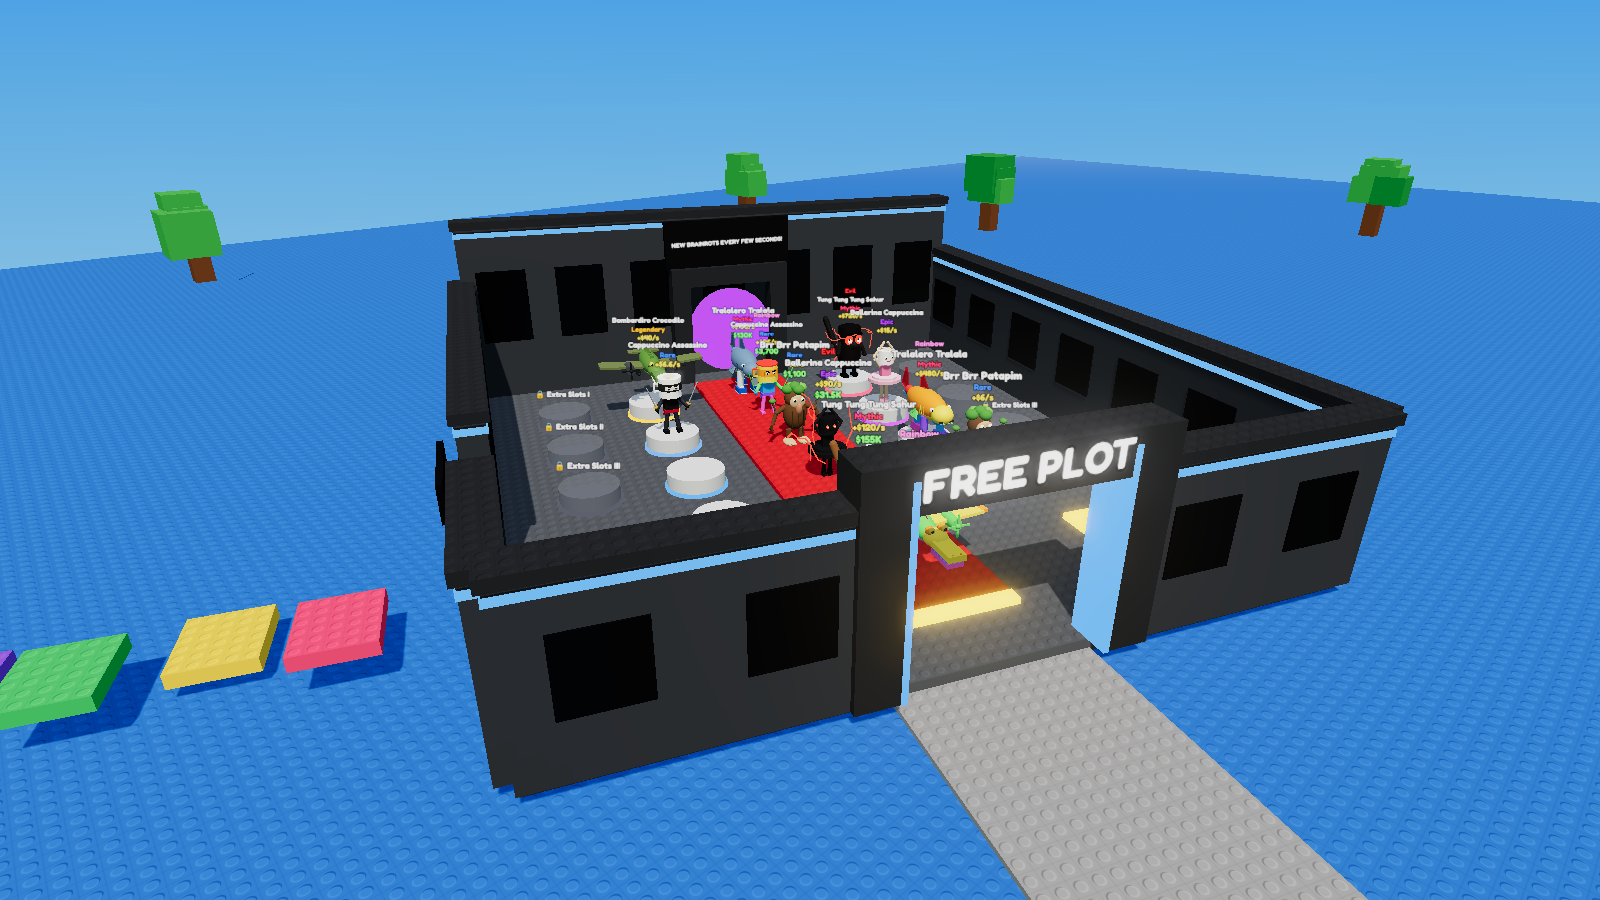
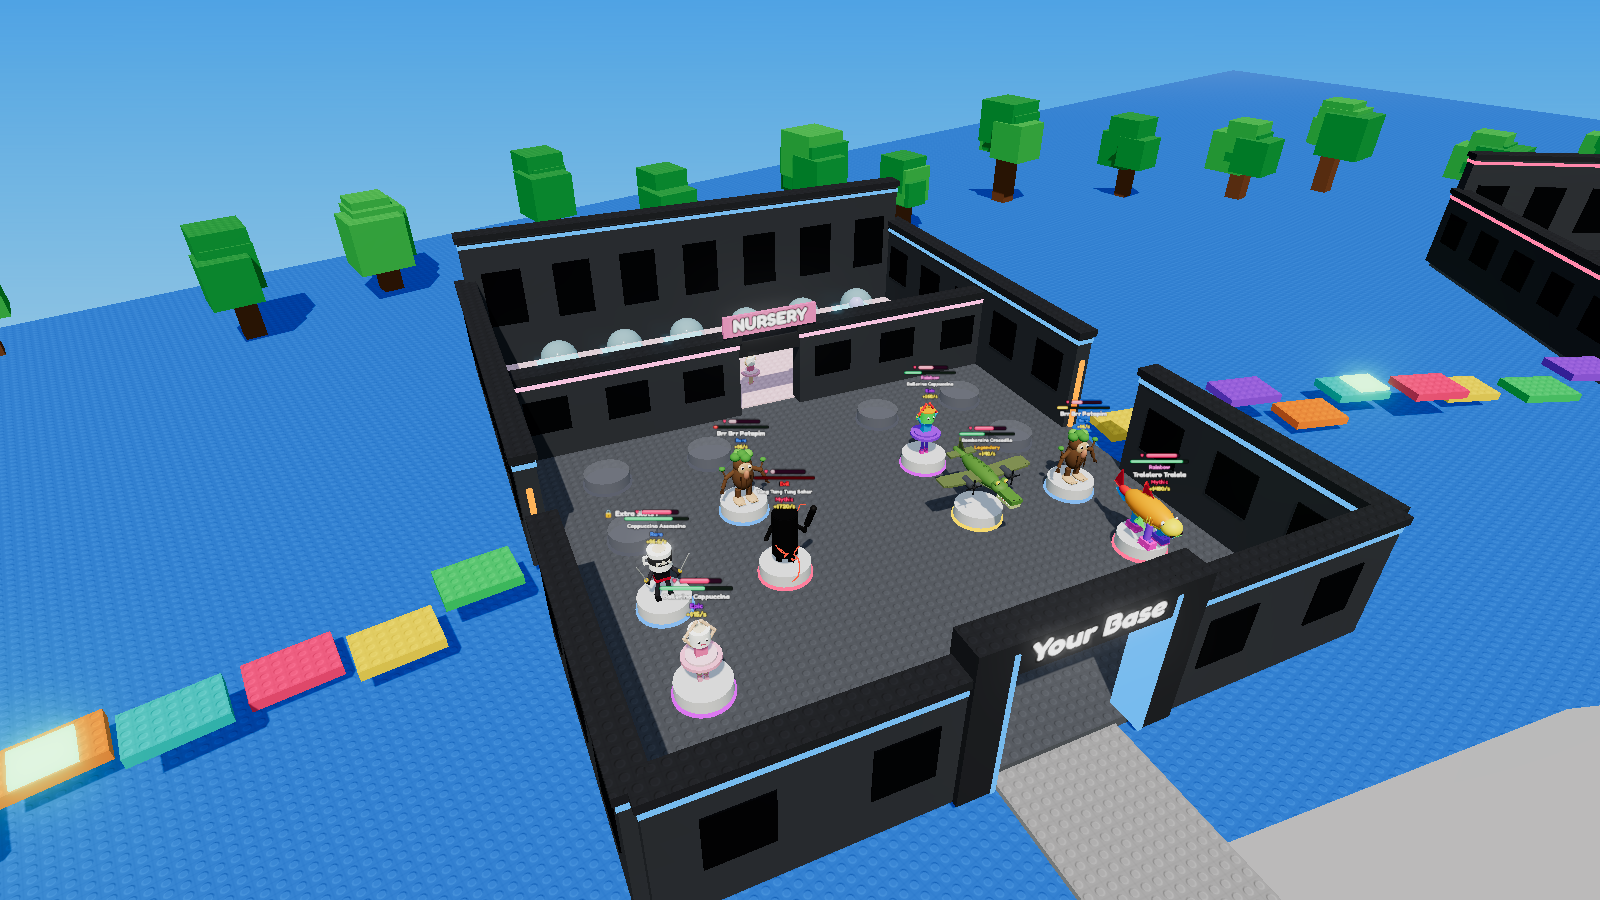
v3 docs + real-code renders: Studio steps and screenshot checklist
- docs/SLICE_REVIEW.md rewritten for v3: Studio steps, dev test buttons,
  walkthrough of every new system, screenshot checklist, what's not in
  this build (stealing itself is Phase 3)
- DECISIONS D39 (owner answers + implementation choices), CHANGELOG,
  DESIGN_V3 marked approved/built with the answers
- World preview renders the real game: map, hub, carpet, your base with
  the owner rows, the other player's view, the nursery with babies and
  eggs, a locked nursery, night; disabled labels are no longer drawn

Claude-Session: https://claude.ai/code/session_01FwRruUCtMU9EALDabTDmkX

diff --git a/docs/SLICE_REVIEW.md b/docs/SLICE_REVIEW.md
@@ -1,51 +1,96 @@
-# Vertical slice: how to open it and what to screenshot
+# v3 build: how to open it in Studio and what to screenshot
+
+This covers the v3 update: the 12-base map, the shared conveyor, food, loyalty and runaways, the nursery, and
+monetisation. The game still runs in **slice mode** (`Config.Game.VERTICAL_SLICE = true`):
+- you claim a base automatically when you join
+- the clock is frozen at midday (press **N** to switch Day/Night)
+- variant odds are boosted
+- only the six modelled characters spawn
+
+Runaway timers still tick in real time while you're in the server: 1 in-game day ≈ 12.8 minutes.
 
 ## Open it in Studio
 1. Pull the branch `claude/rot-shift-roblox-game-zaokoh`.
 2. In the repo: `rokit install` (or `scripts/install-tools.sh`), then `wally install` (fetches Fusion).
 3. `rojo serve`
-4. In Studio: **File → New → Baseplate**. Delete the default **Baseplate** part and **SpawnLocation**
-   (the slice builds its own). Then open the Rojo plugin → **Connect**. Accept the sync.
-5. Check that **Lighting → Technology** shows **Future** (Rojo sets it). If Studio kept the template's
-   value, set it by hand.
-6. *(Optional, for saves)* Game Settings → Security → **Enable Studio Access to API Services**. Studio
-   uses its own `PlayerData_studio_v1` store and tops your cash up to $1,000,000 so you can buy anything.
-7. Press **Play** (F5).
+4. In Studio: **File → New → Baseplate**. Delete the default **Baseplate** and **SpawnLocation**, then
+   open the Rojo plugin → **Connect** and accept the sync.
+5. Check that **Lighting → Technology** is **Future** (Rojo sets it).
+6. *(Optional, for saves)* Game Settings → Security → **Enable Studio Access to API Services**. Studio uses its
+   own `PlayerData_studio_v1` store and tops your cash up to $1,000,000. Old Studio saves migrate to v4
+   automatically: existing brainrots become Adults with a 2-day timer.
+7. Press **Play** (F5). For the multiplayer checks, use **Test → Clients and Servers** with 2 players.
 
-## What you should see
-- You spawn as your own avatar in your base (auto-claimed; the gate sign shows your name).
-- Brainrots step out of the purple portal at the back and walk down the red carpet with nameplates
-  (variant, name, rarity, $/s, price). New one every ~4 s. Unbought ones vanish at the end.
-- Walk up to one and hold the prompt to **Buy**: it walks to a pedestal and the pedestal rim lights up in
-  its rarity colour. Your income starts; walk over the yellow **COLLECT** pad to bank it.
-- Day HUD: cash + income/s, the cycle timer with phase bar, and 6 buttons (Shop and Eggs work; the rest say
-  which phase brings them).
-- The plaza (follow the path out of the gate) has the **Egg Shop** stall (green floating label, blue/white
-  awning) with a merchant. Its prompt opens the
-  Eggs screen.
-- Nameplates shrink with distance like the reference: variant / name / rarity / $/s / price, white text with
-  a thick black outline.
-- The escape lane: coloured obby blocks out of the gap in the right wall.
-- **Day/Night**: press **N** or click the **DEV: Day ⇄ Night** button at the bottom. Night switches the
-  lighting, closes the carpet and eggs, and swaps the HUD to the night buttons + BONK.
+## Studio-only test buttons (bottom of the screen)
+- **DEV: Day ⇄ Night (N)**: switches the phase. In slice mode, **midnight** comes about 4 seconds after you
+  switch to Night.
+- **DEV: expire my timers**: runs every one of your brainrots' timers out. They're "leaving tonight" within a
+  second.
+- **DEV: midnight now**: makes every "leaving tonight" brainrot run immediately.
+
+## Walkthrough (what should happen)
+1. **Map:** you spawn in your base (gate sign "<you>'s Base"). Walk out of the gate and follow the spoke to
+   the hub, about 12 s. Between the bases and the hub: lamps, trees, benches, ponds, a windmill, a pizza statue
+   and other landmarks.
+2. **Shared conveyor:** brainrots step out of the purple portal in the middle of the hub, walk the red loop and
+   vanish into the vortex at the end.
+   - Walk up to one and hold **Buy**: it appears on one of your pedestals.
+   - The **Shop** button lists the carpet, but buying from it only works within about 16 studs of the
+     brainrot.
+   - A Rare+ shows a banner over the portal and a toast for everyone. Every 3 minutes of Day there's a
+     guaranteed **featured** Rare+.
+3. **Food Shop:** use the hub stall with the orange "Food Shop" label.
+   - Tabs: Snacks / Meals / Feasts / Premium, with **x1/x5/x10**.
+   - One card shows a yellow **BEST FOR YOU** badge.
+   - Buy some Pizza Slices; the inventory strip shows them.
+   - Robux buttons say "isn't set up yet" until the dev product ids are filled in `Config/Products.luau`.
+4. **Owner overlay:** over each of *your* brainrots, the nameplate has a **pink loyalty bar with a heart** and a
+   **long green timer bar** under it.
+   - The timer bar drains over time, turns yellow at 25% and red at 10%.
+   - Nameplates fade beyond about 60 studs; yours stay visible to about 140.
+5. **Feeding:** walk up to one of your brainrots and press **Feed**. The card shows growth, loyalty with its
+   income multiplier, and the timer bar.
+   - Pick a food, set the quantity and press **FEED xN**. The timer bar refills and loyalty goes up.
+6. **Runaway:**
+   - Press **DEV: expire my timers**. Your brainrots start **fidgeting**, turning toward the hub, and you
+     get "will run away tonight" toasts.
+   - Feed one of them: it calms down.
+   - Press **N** (Night), or **DEV: midnight now**. The rest jump off their pedestals with a red
+     **RUNAWAY!** label and run out of the gate toward the hub.
+   - **Catch one** by touching it or swinging the **Bonk Bat** at it (press 1 to equip, click to swing). It
+     goes back to its pedestal and loses 10 loyalty.
+   - Let another reach the carpet: it walks the loop with a price, and **anyone** can buy it, even at night.
+7. **Nursery:**
+   - The Base button, or the door prompt at the back of your base, opens the **unlock dialog**. The price scales
+     with your best income ($25K minimum).
+   - Unlock it: the bars disappear and the room turns pink with incubator domes.
+   - Buy an egg at the **Egg Shop**: it sits on an incubator with a countdown. **HATCH** it from the Eggs or
+     Nursery screen.
+   - A small **Baby** with a "Baby" line on its nameplate appears in the pen. Tap it in the Nursery screen, feed
+     it Lasagna until it becomes a **Teen** (bigger), then use **To a pedestal**.
+8. **Privacy (2 players):** in **Clients and Servers**, look at the other player's base. Their nameplates have
+   **no hearts and no bars**, and you get no Feed prompt on their brainrots.
 
 ## Screenshot checklist (please send these)
-1. Spawn view of the base in **day**: carpet, portal, pedestals, gate (third-person, a bit zoomed out).
-2. Close-up of a brainrot **walking on the carpet**, nameplate readable.
-3. One shot of each character: **Tralalero Tralala, Tung Tung Tung Sahur, Bombardiro Crocodilo,
-   Ballerina Cappuccina, Brr Brr Patapim, Cappuccino Assassino** (close enough to judge the likeness).
-4. Each **variant** you catch: **Rainbow** (colour bands scrolling upward; try to catch it walking, with
-   its trail) and **Evil** (black, glowing red eyes, red lightning flickering around it). Variant odds are
-   boosted in the slice, so you'll see them quickly.
-5. The **Buy prompt** and the brainrot **on a pedestal** after buying (rim lit).
-6. The **day HUD** full screen, ideally once on a phone-sized window too: Studio → Test → Device emulator.
-7. The **Shop** panel (Shop button) and the **Eggs** screen (Egg Stall prompt).
-8. The **plaza with the Egg Stall** and merchant.
-9. The **escape lane** exit.
-10. The same base view at **night** (press N), plus the night HUD.
-11. **Holding the Bonk Bat** (it's in your backpack: press 1) and swinging it. Check the bat points up and out
-    of your hand, not sideways.
-12. Anything that looks broken (floating parts, wrong facing, unreadable text) with the Output window
-    visible.
+1. **Your base** from the gate, with the owner rows over your brainrots.
+2. **Close-up** of one brainrot's nameplate showing the heart + loyalty bar and the long timer bar.
+3. The same brainrot after **DEV: expire my timers**: red / empty bar, fidgeting.
+4. A **runaway running** out of the gate with its RUNAWAY! label, and the moment you **catch it** (toast).
+5. A runaway **walking the hub carpet** with a price.
+6. The **hub** from above the gate path: portal, carpet loop, Egg Shop and Food Shop.
+7. The **Food Shop** screen on two tabs (Snacks and Feasts), with the **BEST FOR YOU** badge visible.
+8. The **brainrot card** (Feed screen) with a food selected and the gain preview.
+9. The **Nursery unlock dialog**, then the **open nursery** with an egg hatching and a baby in the pen.
+10. A **Baby** next to an **Adult** of the same character (size difference).
+11. **Second player's view** of your base (no bars, no hearts).
+12. The **top of the map**: zoom out on a spoke between the hub and the bases (decor, lanes).
+13. Anything broken (floating parts, wrong facing, unreadable text) with the **Output** window visible.
 
 If anything errors, a screenshot of the **Output** window is the most useful thing you can send.
+
+## Not in this build (later phases)
+- **Stealing** (Phase 3). Picking up a brainrot, escape runs and the hub-shortcut speed reset aren't built yet.
+  The **stolen-return rule** is built and tested (`Logic/Loyalty.steal` / `nightDecision`, and the
+  run-home with the thief's catch in LoyaltyService), and it switches on once stealing exists.
+- **Robux purchases** need real product and pass ids in `Config/Products.luau`.
+- Leaderboards show placeholders. Trading and the event stage are decoration for now.

diff --git a/DECISIONS.md b/DECISIONS.md
@@ -250,3 +250,46 @@ feedback. Overrides:
 - **Nameplates** are 5.6 studs wide with 0.72-stud lines and hidden beyond 60 studs. The owner's client raises
   that for their own brainrots.
 
+**D39. v3 food, loyalty, runaways, nursery, monetisation (built).** Implements D37 with the owner's answers:
+- **Robux x5 bundles** are 10% off (one dev product per bundle).
+- **Nursery unlock price scales with progress:** 300 s of the best-ever income/s (`stats.peakIncome`, so
+  removing brainrots can't make it cheaper), clamped to $25K–$5M. The Robux skip is 99 R$.
+- **Growth** also comes passively: +1 growth point per in-game hour while you're online.
+- **Nonna's Secret Recipe** makes the brainrot an Adult wherever it is, pedestal included.
+- **"Best for you"** marks the priciest cash food costing at most 600 s of your income.
+
+Implementation choices:
+- **In-game time:** 1 in-game day = one Day+Dusk+Night+Vote cycle (`Cycle.length()`, 770 s). Timers only
+  advance for players in the server. In slice mode the clock is frozen, but timers still tick in real time so
+  they can be tested. Midnight comes 4 s after switching to Night, and Studio dev buttons can expire timers or
+  trigger midnight.
+- **Leaving tonight:** a brainrot whose timer runs out fidgets; feeding it before midnight saves it. At
+  midnight it leaves its pedestal and walks out of the gate, down its spoke, to the nearest point of the carpet
+  (RUN_SPEED 14).
+  - **Caught** by the owner's touch or bat: it goes home with -10 loyalty and a 2-day timer.
+  - **Reached the carpet:** it's removed from the owner's save and becomes a carpet listing anyone can buy,
+    even at night (normal listings stop at night). The buyer gets it with the starting loyalty and a 2-day
+    timer.
+  - If the owner leaves mid-run, the run is called off and the brainrot stays theirs.
+- **Stolen-return rule:**
+  - At midnight a stolen brainrot with old loyalty ≥ 70 runs home, but only if its original owner is in the
+    server and has a base. The thief can catch it the same way.
+  - Its old loyalty fades by 10 a night (`OLD_LOYALTY_DECAY_PER_NIGHT`).
+  - The steal action itself (pickup and escape) is still Phase 3. `Loyalty.steal` is the hand-off it will call.
+- **Loyalty over time:** while fed within the last in-game day, +6 per in-game day; once neglected, −3 per day.
+  The Bond Collar pauses the timer and stops gains (not decay).
+- **Bought brainrots** are Adults (growth 140). **Hatched** ones are Babies in the pen; the pen holds 10.
+  Eggs need an unlocked nursery, and incubators are 3 + Extra Incubator passes (99/149/199 R$).
+- **The Food Shop is open at night** (feeding is how you save a leaving brainrot). Buying needs you at the
+  stall; feeding works anywhere (prompt or card).
+- **Owner privacy:** loyalty, timers and the collar only travel in the owner's own DataSnapshot / HatchResult
+  (`Data/Public`). The overlay rows are created on the owner's client inside the replicated nameplate
+  (`World/OwnerStatus`), so they never replicate. The stage line (Baby/Teen) and the fidgeting are public by
+  design.
+- **Monetisation (subset of Phase 8):**
+  - Pass ownership feeds Entitlements.
+  - ProcessReceipt is idempotent (`grantedReceipts`) and grants the Nursery Unlock skip and food bundles.
+  - Treat Packs are gone; saves turn treats into Pizza Slices (migration v3→v4).
+- **Bat:** each player's own copy is hooked (connections don't clone from the StarterPack template; the old
+  swing never ran). A swing catches your runner within 8 studs in front of you.
+

diff --git a/docs/DESIGN_V3.md b/docs/DESIGN_V3.md
@@ -1,7 +1,7 @@
-# v3 update: design proposal (awaiting owner feedback)
+# v3 update: design (approved, built; see D38/D39)
 
 Scope (from the owner's update): a bigger map with 12 bases round a central hub, a shared conveyor, nursery +
-loyalty, and a food shop. Nothing here is implemented yet. After feedback, the work goes in this order: map →
+loyalty, and a food shop. Approved with the owner's answers (DECISIONS D39) and built. After feedback, the work goes in this order: map →
 shared conveyor → food shop → loyalty/runaway → nursery/growth → stolen-return rule → monetisation.
 
 Renders: `assets/mockups/v3/`. In-world shots come from `tools/preview/design/map.luau`, which uses the real
@@ -84,13 +84,11 @@ Every value is as given by the owner; the full table will live in `Config/Food.l
 - **Added:** dev products for foods 10–18 (one per price and bundle), Nursery Unlock skip, incubator passes.
 - Nothing purchasable stops stealing, reveals other players' loyalty or guarantees a catch.
 
-## Open questions
+## Owner answers (applied, D39)
 
-1. Robux ×5 bundles: exactly 5× the price, or a small discount?
-2. Nursery unlock: is a flat $250K right, or should it scale with progress?
-3. Growth: food only, or also a slow passive trickle?
-4. Nonna's Secret Recipe on a brainrot already on a pedestal: does it just become an Adult there?
-5. A "best for your income" highlight in the Food Shop?
-6. Balance note: at current incomes a Common earns ~$770 per in-game day, so even the cheapest foods cost
-   more than a Common earns. That makes food worth it mainly on Rare+ brainrots. The prices stay as given (the
-   owner asked to keep this scale). Flagging it in case low-rarity brainrots should simply be allowed to run away.
+1. Robux x5 bundles: a small discount (10% off).
+2. Nursery unlock: scales with progress (300 s of best-ever income, $25K-$5M).
+3. Growth: food, and slowly over time as well (+1 point per in-game hour online).
+4. Nonna's Secret Recipe on a pedestal brainrot: yes, it becomes an Adult there.
+5. "Best for you" highlight in the Food Shop: yes.
+6. Timer overlay: one long bar with no text, green -> yellow at 25% -> red at 10% (owner feedback on the mockup).

diff --git a/CHANGELOG.md b/CHANGELOG.md
@@ -1,5 +1,32 @@
 # Changelog
 
+## v3: bigger map, shared conveyor, food, loyalty + runaways, nursery (awaiting Studio feedback)
+
+- **Map:** 12 bases in a ring around a central hub (gate to carpet ≈ 12 s).
+  - Spokes with lamps; a meadow with trees, benches and six landmark types.
+  - Escape lanes between neighbouring bases.
+  - A nursery in every base.
+- **Shared conveyor:** one portal and carpet loop for everyone, first to buy. Rare+ banner; a featured Rare+
+  every 3 minutes of Day; runaways rejoin it.
+- **Food Shop:** 18 foods (owner's table), cash x1/x5/x10, Robux x1/x5 (10% off), a Best-for-you badge,
+  inventory, feeding from a prompt or the brainrot card.
+- **Loyalty and runaway timer:**
+  - Owner-only loyalty bar and one long timer bar on your nameplates (green → yellow 25% → red 10%).
+  - Income ×0.5–×2 from loyalty.
+  - "Leaving tonight" fidget, midnight runaways to the carpet, catch by touch or BONK.
+  - Stolen brainrots run home if still loyal.
+- **Nursery:** progress-scaled unlock or a Robux skip, incubators (3 + passes), Babies grow to Teens and
+  Adults (bigger, earning more) from food and slowly over time; move to a pedestal at any stage.
+- **Monetisation:** Nursery Unlock skip, Robux food bundles and Extra Incubator passes added; Treat Packs
+  removed; the Bond Collar now pauses the timer; idempotent receipts.
+- **Save v4:** migration with tests. New tests for the timer, the runaway/return decision, income, growth and
+  food pricing (115 tests).
+- **Fixes:**
+  - The Bonk Bat swing now works (each player's copy is hooked).
+  - Disabled labels are no longer drawn in previews.
+- **Previews:** real-code world renders in `assets/previews/world-*.png`; Studio steps and screenshot
+  checklist in `docs/SLICE_REVIEW.md`.
+
 ## v3 design round (awaiting feedback)
 
 - **Design renders** for the 12-base ring and hub map, the shared conveyor, the nursery (locked and unlocked)
